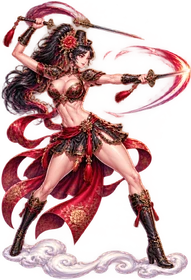
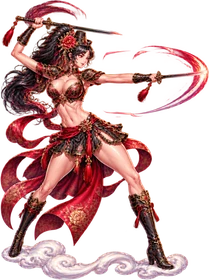
그믐: 월향 각성 게임 그림 칼 끊김·칼 길이·팔 길이 고침(직접 편집), 팔 고치는 방법 규칙 추가
Claude-Session: https://claude.ai/code/session_01X3WCR5nTXLkTaQuYbPMPiQ

diff --git a/game-design/art/그림_규칙.md b/game-design/art/그림_규칙.md
@@ -25,6 +25,9 @@
     - **팔 길이를 맞출 때 손 크기는 건드리지 않는다**(손은 원래 크기 그대로, 팔만 늘리거나 줄임). 금화 각성 일러스트를 2.6에 맞추려다 팔과 손이 괴물처럼 늘어난 일(11/27)이 있어 넣음.
     - 고칠 때는 **고치기 전 그림에서 살짝만** 늘린다(자세·손 모양·소품 위치 유지).
     - 손바닥 위에 무기를 띄우는 자세에서 팔이 특히 짧게 나오므로 조심.
+    - **AI가 숫자 비율(머리 수)을 잘 안 지킨다**(11/27 월향 각성: 「앞팔 2.2머리」를 넣어도 1.6 그대로). 고쳐 그리기(EDIT)는 원래 그림을 지키려는 힘이 커서 더 안 바뀜. 그래서 고칠 때는
+      1. **먼저 크레딧 없이 직접 고친다**: 팔 피부 구간을 가로로 늘리고 그 앞쪽(팔찌·손·무기·효과)을 통째로 옮김(필요하면 캔버스를 넓힘). 칼이 너무 길면 칼날을 줄이고 칼끝을 옮겨 붙임. 손·무기 모양은 원래 픽셀 그대로.
+      2. 직접 고치기 어려우면(팔이 굽었거나 몸에 가림) EDIT로 하되, 숫자 대신 **그림 안 위치**로 지시(예: 「앞 손과 칼을 오른쪽으로 약 60픽셀 옮기고 그만큼 아래팔을 늘림」).
   (상한은 11/27 금화 9.5머리·가랑이 41%에서 추가, 금화는 사용자 확정으로 그대로 둠)
 - **기준 캐릭터 최우선 (2순위, 사용자 11/27 00절로 올림)**: 그 캐릭터의 **얼굴·체형**은 기준 모습(원본·각성 그림)을 지킨다. 각성2·스킨도 얼굴은 같은 사람이어야 한다(직녀 각성2에서 얼굴이 다른 사람이 되어 다시 그림). **머리 모양·머리색·특징 소품·옷·자세는 디자인이 다양하도록 자유롭게 바꿔도 된다**(사용자 11/27). 단, 무기를 바꾸면 공격 이펙트·무기 끝 좌표를 개발방에 함께 넘긴다.
 - **그릴 때마다 넣는 것 (3순위, 사용자 11/27 00절로 올림)**: 새로 그릴 때도 고쳐 그릴 때(EDIT)도 빠짐없이

diff --git a/game-design/art/새캐릭터2/README.md b/game-design/art/새캐릭터2/README.md
@@ -39,3 +39,8 @@
 | aw38p | e8216577 | be7a783e | |
 | aw34p | f4c30939 | af50cda7 | |
 | aw34 | 9c0549cd | 7eae7ae2 | 팔 벌린 폭 키의 82% → 약 109% |
+
+### 월향 각성 게임 그림 aw38p 다시 고침 (11/27)
+- 사용자 지적: 머리 뒤 칼이 끊김(칼날 빠짐 + 코등이 2개, 처음 그림 e8216577부터 있던 문제). → EDIT 3ef42f45(0.75크레딧): 칼이 한 줄로 이어짐. 다만 위 칼이 약 4.1머리로 더 길어지고 앞팔은 그대로(약 1.6머리).
+- 그 뒤 **크레딧 없이 직접 고침**(픽셀 편집): 위 칼 칼날을 약 2.5머리로 줄이고 칼끝을 옮겨 붙임, 앞팔은 위팔 피부 구간(가로 385~405)을 늘리고 앞쪽(팔찌·손·칼·칼바람)을 통째로 오른쪽 65픽셀 옮김(캔버스 688→753 넓힘) → 앞팔 약 2.1머리. 손·칼 모양은 원래 픽셀 그대로.
+- 앞 칼은 화면 오른쪽 끝에서 잘림(사용자 허락: 넘어간 부분은 안 그려도 됨).
